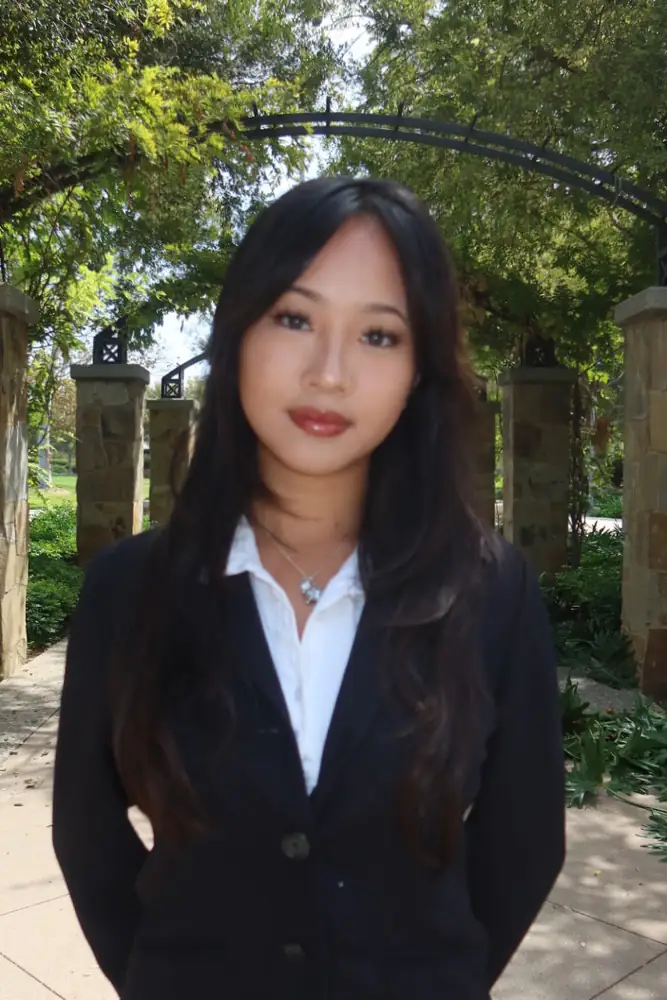
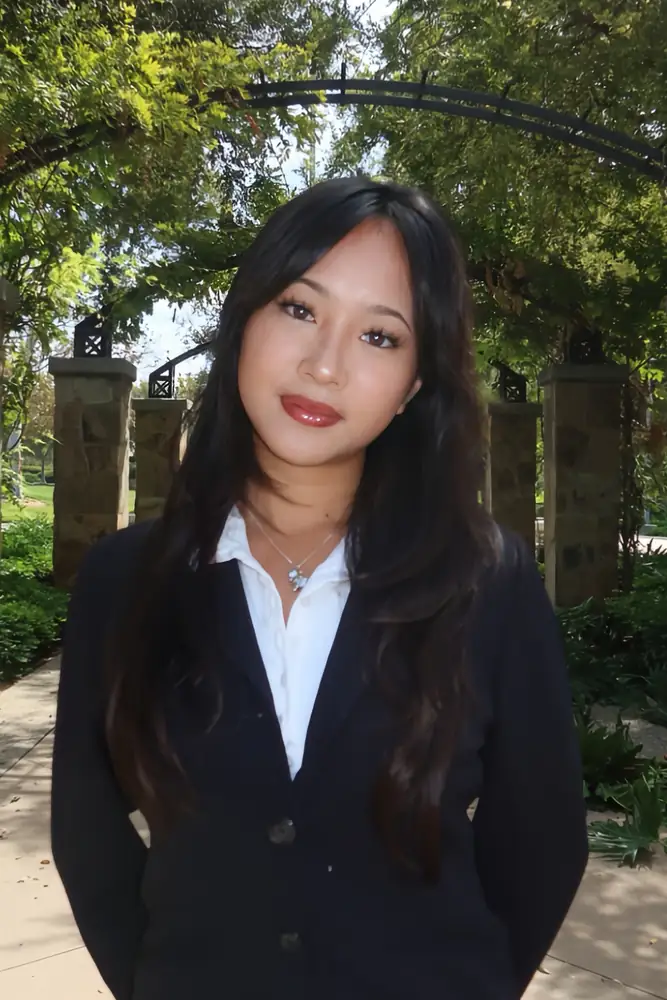
Put Emily Chien on the site, and swap Megan Dinh's photo
Both arrived as JPEGs framed wide, and both are cropped to sit at the same
head height and scale as the grid around them, then written as webp at
667x1000. Megan's replaces the one from yesterday.

Registering Emily's headshot is the whole of her going live: the roster
holds a Beta member back until a photo exists under their name, and her
write-up has been waiting in the sheet. Her hover mark is the UPS shield,
which had no artwork in the repo until now.

Millicent Mei keeps her DoorDash row on Careers and gains the INYO one, so
the page carries both rather than replacing one with the other.

diff --git a/src/Assets/headshot.js b/src/Assets/headshot.js
@@ -72,6 +72,7 @@ import MaxTruong from "./ActiveHeadshots/Max Truong.webp";
 import JamesFitzpatrick from "./ActiveHeadshots/James Fitzpatrick.webp";
 import PranavRao from "./ActiveHeadshots/Pranav Rao.webp";
 import MeganDinh from "./ActiveHeadshots/Megan Dinh.webp";
+import EmilyChien from "./ActiveHeadshots/Emily Chien.webp";
 
 import DefaultHeadshot from "./ActiveHeadshots/Default Headshot.webp";
 
@@ -157,5 +158,6 @@ export const headshotHash = {
   "James Fitzpatrick": JamesFitzpatrick,
   "Pranav Rao": PranavRao,
   "Megan Dinh": MeganDinh,
+  "Emily Chien": EmilyChien,
   "Default Headshot": DefaultHeadshot,
 };

diff --git a/src/Assets/index.js b/src/Assets/index.js
@@ -245,6 +245,7 @@ export { default as CreditKarmaLogo } from "./Logos/CreditKarmaLogo.png";
 export { default as TeslaLogo } from "./Logos/TeslaLogo.png";
 export { default as PalantirLogo } from "./Logos/PalantirLogo.png";
 export { default as InyoLogo } from "./Logos/InyoLogo.png";
+export { default as UPSLogo } from "./Logos/UPSLogo.png";
 export { default as RobloxLogo } from "./Logos/RobloxLogo.png";
 export { default as CelsiusLogo } from "./Logos/CelsiusLogo.png";
 export { default as TacoBellLogo } from "./Logos/TacoBellLogo.png";

diff --git a/src/Assets/company.js b/src/Assets/company.js
@@ -47,6 +47,7 @@ import {
     DeloitteLogo,
     doordashlogo,
     InyoLogo,
+    UPSLogo,
     PalantirLogo,
     RobloxLogo,
     CelsiusLogo,
@@ -117,6 +118,7 @@ export const companyHash = {
     "Braeden Yeoh": DeloitteLogo,
     "Daniela Herrera": RobloxLogo,
     "Megan Dinh": TeslaLogo,
+    "Emily Chien": UPSLogo,
     "Pranav Rao": TeslaLogo,
     "Default Headshot": DefaultHeadshot,
   };

diff --git a/src/utils/careersLocal.js b/src/utils/careersLocal.js
@@ -267,6 +267,14 @@ export const LOCAL_CAREERS = [
     "Millicent Mei",
     "2026",
     "Marketing",
+    "Campus Marketing",
+    "DoorDash",
+    "Campus Launcher",
+  ],
+  [
+    "Millicent Mei",
+    "2026",
+    "Marketing",
     "Growth Marketing",
     "INYO",
     "Growth & Strategic Marketing",
